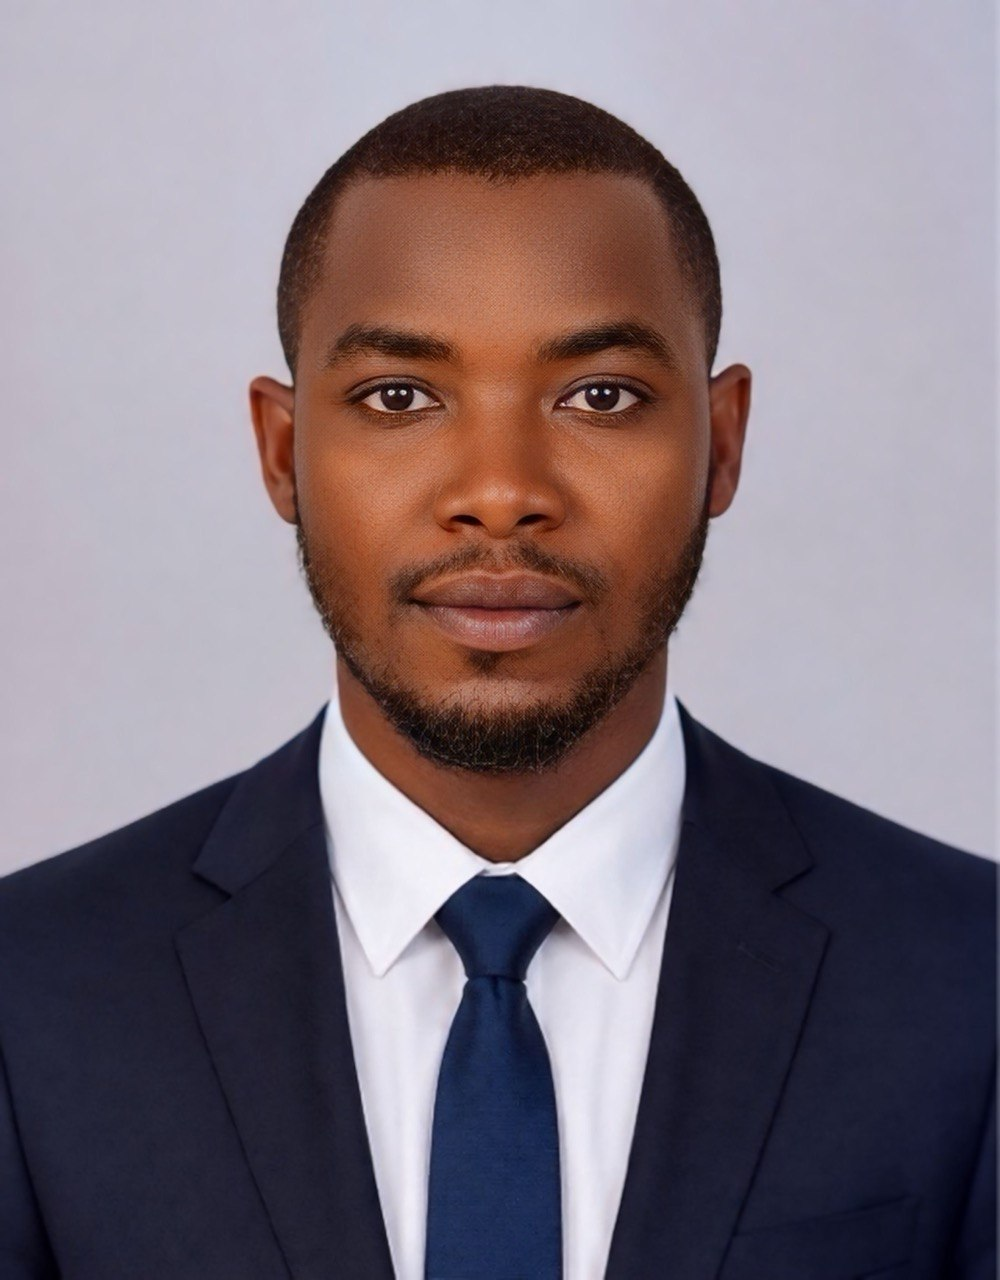
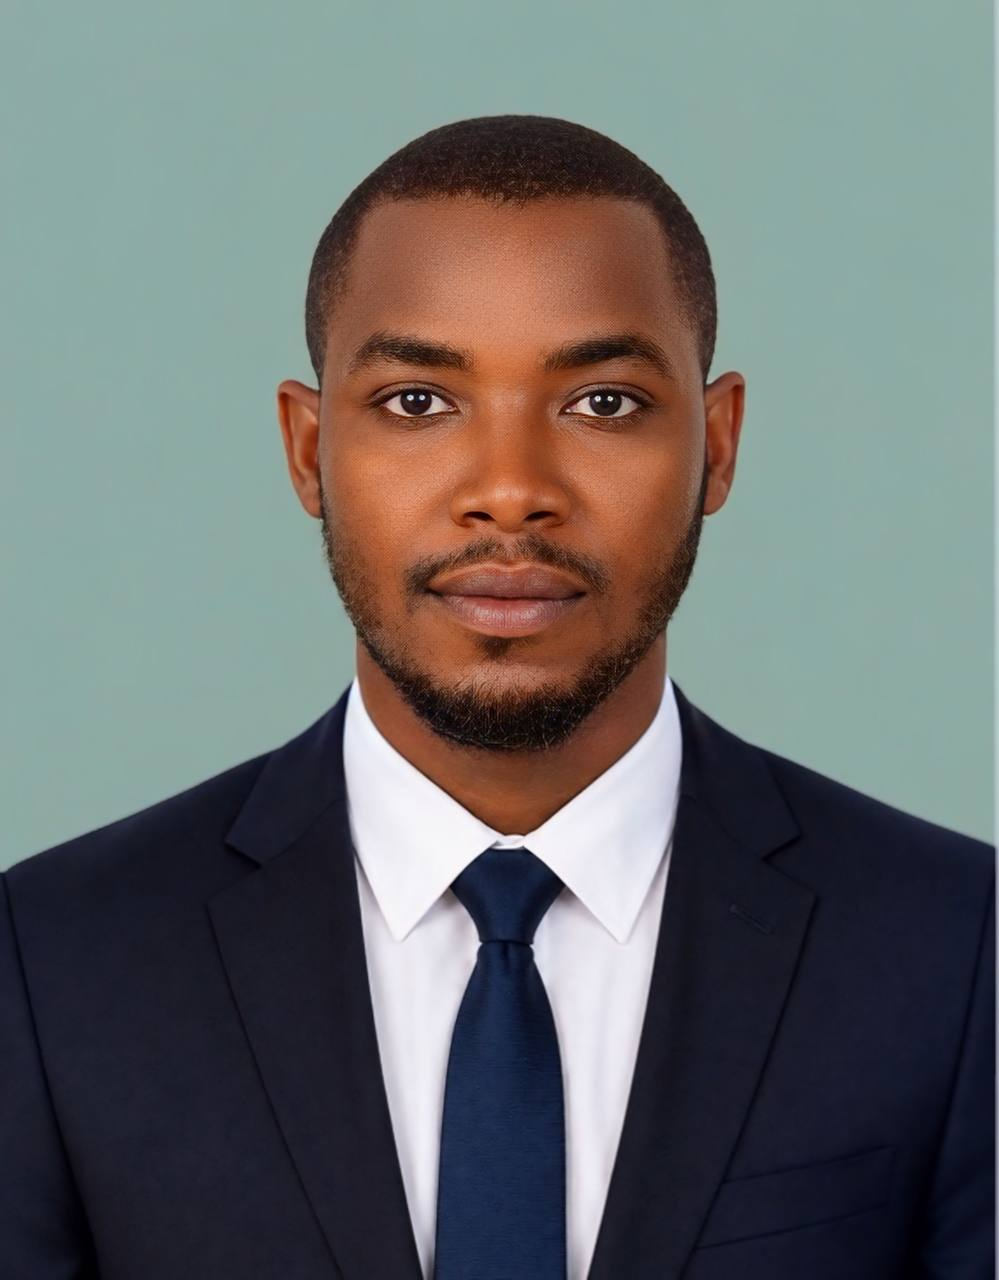
CV : nouvelle photo me3 (fond sauge)
Claude-Session: https://claude.ai/code/session_018T9yfH99jDUcwMFDwAZz9e

diff --git a/portfolio/cv.html b/portfolio/cv.html
@@ -311,7 +311,7 @@
       <!-- Sidebar -->
       <aside class="side">
         <div class="cv-photo-wrap">
-          <img class="cv-photo" src="assets/img/me3.jpg?v=1" alt="Portrait d'Atanda Abdullahi" />
+          <img class="cv-photo" src="assets/img/me3.jpg?v=2" alt="Portrait d'Atanda Abdullahi" />
         </div>
 
         <h2 class="sec" data-i18n="contact">Contact</h2>
